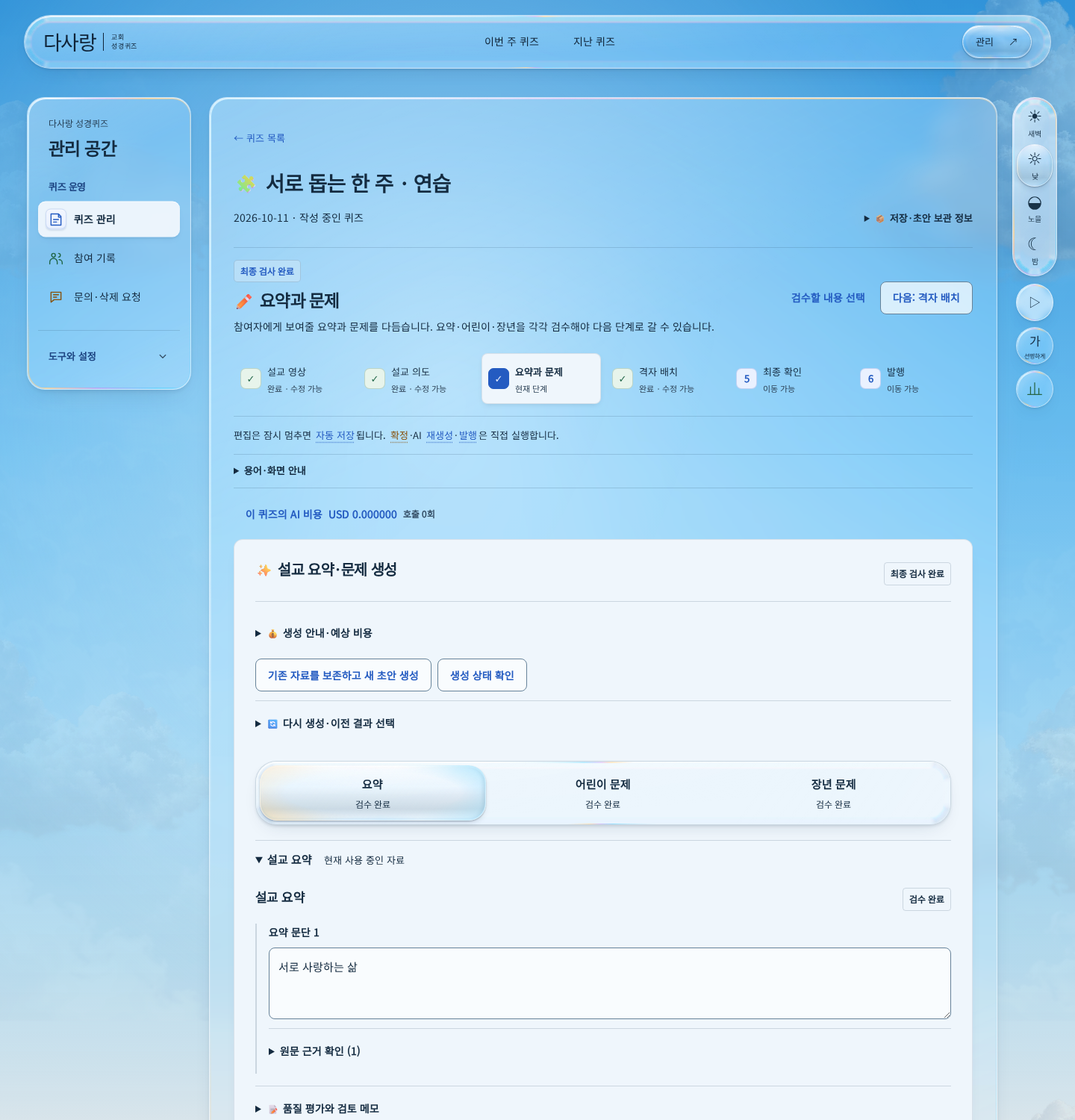
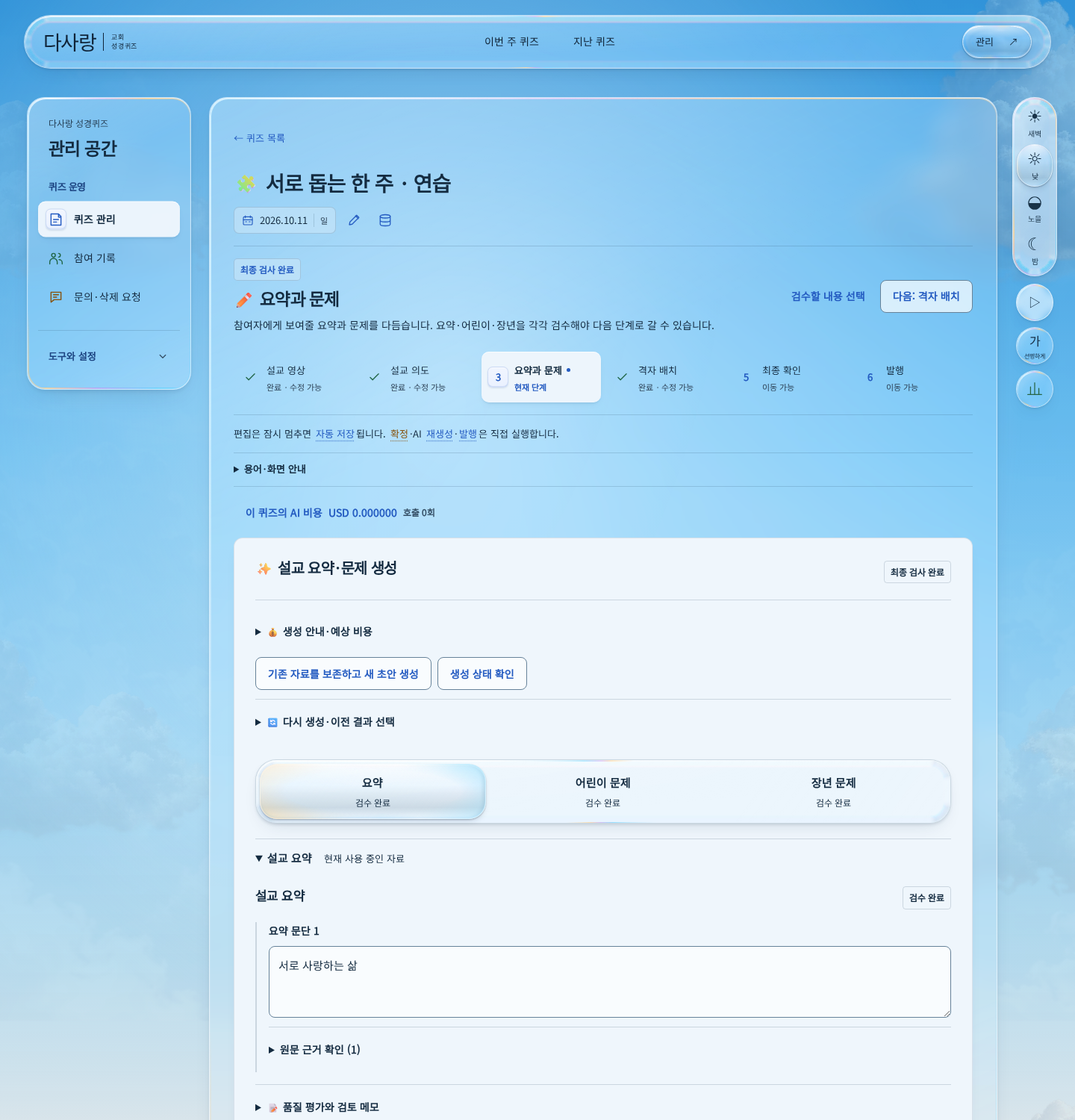
Refine workflow navigation and register warm sunset palette

diff --git a/docs/design/phase-9/admin-sidebar/palette.html b/docs/design/phase-9/admin-sidebar/palette.html
@@ -1,3 +1,3 @@
 <!doctype html><html lang="ko"><meta charset="utf-8"><meta name="viewport" content="width=device-width,initial-scale=1"><title>시간대별 의미 색상</title><style>
 *{box-sizing:border-box}body{margin:0;padding:36px;background:#f3f6fa;color:#172e43;font:15px/1.6 system-ui,"Malgun Gothic",sans-serif}main{max-width:1440px;margin:auto}h1{font-size:28px;margin:0 0 8px;letter-spacing:-.04em}main>p{margin:0 0 30px;color:#4c6075}.themes{display:grid;grid-template-columns:repeat(4,minmax(0,1fr));gap:20px}section{color:var(--ink);background:var(--surface);border:1px solid #829ab433;border-radius:20px;padding:26px}h2{font-size:24px;margin:0 0 6px}header p{font-size:13px;color:var(--muted);min-height:42px;margin:0 0 24px;word-break:keep-all}ul{list-style:none;margin:0;padding:0;display:grid;gap:24px}li>div{display:flex;align-items:center;justify-content:space-between;gap:8px}strong{display:inline-block;padding:6px 11px;font-size:14px;border-radius:7px}code{font-size:12px;color:var(--muted)}li>span{display:block;font-size:12px;color:var(--muted);margin:7px 0 0}footer{font-size:13px;color:#4c6075;margin-top:28px}a{color:#245bc1;text-underline-offset:3px}@media(max-width:1100px){.themes{grid-template-columns:repeat(2,minmax(0,1fr))}}@media(max-width:560px){body{padding:24px 16px}.themes{grid-template-columns:1fr}header p{min-height:0}}
-</style><main><h1>시간대별 의미 색상</h1><p>같은 의미를 유지하면서 하늘의 시간대에 맞춰 글자색과 받침색이 함께 바뀝니다. 도움말 안에서도 실행은 파랑, 완료는 초록, 확인은 호박색, 용어 설명은 자주색, 위험은 장미색으로 구분합니다.</p><div class="themes"><section style="--surface:#e1e5f2;--ink:#172e43;--muted:#4c6075"><header><h2>새벽</h2><p>차가운 하늘에 맞춘 인디고와 보라</p></header><ul><li><div><strong style="color:#354fc0;background:#eaeffd">퀴즈 만들기</strong><code>#354FC0</code></div><span>실행·이동·선택</span></li><li><div><strong style="color:#226253;background:#e6f4ec">공개 중</strong><code>#226253</code></div><span>공개·완료</span></li><li><div><strong style="color:#86500e;background:#fcedd9">답변 대기</strong><code>#86500E</code></div><span>확인 필요·답변 대기</span></li><li><div><strong style="color:#762bb3;background:#f5e6ff">도움말</strong><code>#762BB3</code></div><span>일반 안내·용어의 뜻</span></li><li><div><strong style="color:#ae3555;background:#fbe8f0">확인 실패</strong><code>#AE3555</code></div><span>오류·위험 안내</span></li></ul></section><section style="--surface:#dceffa;--ink:#172e43;--muted:#4c6075"><header><h2>낮</h2><p>맑은 하늘에서도 선명한 색상</p></header><ul><li><div><strong style="color:#245bc1;background:#eaf1ff">퀴즈 만들기</strong><code>#245BC1</code></div><span>실행·이동·선택</span></li><li><div><strong style="color:#216648;background:#e7f4eb">공개 중</strong><code>#216648</code></div><span>공개·완료</span></li><li><div><strong style="color:#87520c;background:#fff1d8">답변 대기</strong><code>#87520C</code></div><span>확인 필요·답변 대기</span></li><li><div><strong style="color:#7429c6;background:#f2e7ff">도움말</strong><code>#7429C6</code></div><span>일반 안내·용어의 뜻</span></li><li><div><strong style="color:#aa3347;background:#fcebf0">확인 실패</strong><code>#AA3347</code></div><span>오류·위험 안내</span></li></ul></section><section style="--surface:#f5e6df;--ink:#172e43;--muted:#4c6075"><header><h2>노을</h2><p>따뜻한 바탕 위의 자주와 적갈색</p></header><ul><li><div><strong style="color:#3d4cb0;background:#eeeafe">퀴즈 만들기</strong><code>#3D4CB0</code></div><span>실행·이동·선택</span></li><li><div><strong style="color:#30623e;background:#ebf3e5">공개 중</strong><code>#30623E</code></div><span>공개·완료</span></li><li><div><strong style="color:#8d480d;background:#fff0d7">답변 대기</strong><code>#8D480D</code></div><span>확인 필요·답변 대기</span></li><li><div><strong style="color:#972492;background:#fce7fa">도움말</strong><code>#972492</code></div><span>일반 안내·용어의 뜻</span></li><li><div><strong style="color:#b22d3b;background:#ffe8e6">확인 실패</strong><code>#B22D3B</code></div><span>오류·위험 안내</span></li></ul></section><section style="--surface:#142d45;--ink:#edf3ff;--muted:#bacbdd"><header><h2>밤</h2><p>어두운 바탕 위의 밝은 색상</p></header><ul><li><div><strong style="color:#acc8ff;background:#1b3558">퀴즈 만들기</strong><code>#ACC8FF</code></div><span>실행·이동·선택</span></li><li><div><strong style="color:#94dab4;background:#153e31">공개 중</strong><code>#94DAB4</code></div><span>공개·완료</span></li><li><div><strong style="color:#f5cb7f;background:#493416">답변 대기</strong><code>#F5CB7F</code></div><span>확인 필요·답변 대기</span></li><li><div><strong style="color:#d7acff;background:#38204f">도움말</strong><code>#D7ACFF</code></div><span>일반 안내·용어의 뜻</span></li><li><div><strong style="color:#ffabbe;background:#4c2031">확인 실패</strong><code>#FFABBE</code></div><span>오류·위험 안내</span></li></ul></section></div><footer>P9-22·P9-23의 실제 앱 색상 기준입니다. <a href="/admin/manual">앱에서 시간대를 바꿔 보기</a> · <a href="reference.png">사이드바 시안 보기</a></footer></main></html>
+</style><main><h1>시간대별 의미 색상</h1><p>같은 의미를 유지하면서 하늘의 시간대에 맞춰 글자색과 받침색이 함께 바뀝니다. 실행은 기본 파랑·노을에는 구릿빛, 완료는 초록, 확인은 호박색, 용어 설명은 자주색, 위험은 장미색으로 구분합니다.</p><div class="themes"><section style="--surface:#e1e5f2;--ink:#172e43;--muted:#4c6075"><header><h2>새벽</h2><p>차가운 하늘에 맞춘 인디고와 보라</p></header><ul><li><div><strong style="color:#354fc0;background:#eaeffd">퀴즈 만들기</strong><code>#354FC0</code></div><span>실행·이동·선택</span></li><li><div><strong style="color:#226253;background:#e6f4ec">공개 중</strong><code>#226253</code></div><span>공개·완료</span></li><li><div><strong style="color:#86500e;background:#fcedd9">답변 대기</strong><code>#86500E</code></div><span>확인 필요·답변 대기</span></li><li><div><strong style="color:#762bb3;background:#f5e6ff">도움말</strong><code>#762BB3</code></div><span>일반 안내·용어의 뜻</span></li><li><div><strong style="color:#ae3555;background:#fbe8f0">확인 실패</strong><code>#AE3555</code></div><span>오류·위험 안내</span></li></ul></section><section style="--surface:#dceffa;--ink:#172e43;--muted:#4c6075"><header><h2>낮</h2><p>맑은 하늘에서도 선명한 색상</p></header><ul><li><div><strong style="color:#245bc1;background:#eaf1ff">퀴즈 만들기</strong><code>#245BC1</code></div><span>실행·이동·선택</span></li><li><div><strong style="color:#216648;background:#e7f4eb">공개 중</strong><code>#216648</code></div><span>공개·완료</span></li><li><div><strong style="color:#87520c;background:#fff1d8">답변 대기</strong><code>#87520C</code></div><span>확인 필요·답변 대기</span></li><li><div><strong style="color:#7429c6;background:#f2e7ff">도움말</strong><code>#7429C6</code></div><span>일반 안내·용어의 뜻</span></li><li><div><strong style="color:#aa3347;background:#fcebf0">확인 실패</strong><code>#AA3347</code></div><span>오류·위험 안내</span></li></ul></section><section style="--surface:#f7e9df;--ink:#3f2c2b;--muted:#715750"><header><h2>노을</h2><p>살구빛 본문과 구릿빛 실행색</p></header><ul><li><div><strong style="color:#8a432f;background:#f9e4d9">퀴즈 만들기</strong><code>#8A432F</code></div><span>실행·이동·선택</span></li><li><div><strong style="color:#30623e;background:#ebf3e5">공개 중</strong><code>#30623E</code></div><span>공개·완료</span></li><li><div><strong style="color:#8d480d;background:#fff0d7">답변 대기</strong><code>#8D480D</code></div><span>확인 필요·답변 대기</span></li><li><div><strong style="color:#972492;background:#fce7fa">도움말</strong><code>#972492</code></div><span>일반 안내·용어의 뜻</span></li><li><div><strong style="color:#b22d3b;background:#ffe8e6">확인 실패</strong><code>#B22D3B</code></div><span>오류·위험 안내</span></li></ul></section><section style="--surface:#142d45;--ink:#edf3ff;--muted:#bacbdd"><header><h2>밤</h2><p>어두운 바탕 위의 밝은 색상</p></header><ul><li><div><strong style="color:#acc8ff;background:#1b3558">퀴즈 만들기</strong><code>#ACC8FF</code></div><span>실행·이동·선택</span></li><li><div><strong style="color:#94dab4;background:#153e31">공개 중</strong><code>#94DAB4</code></div><span>공개·완료</span></li><li><div><strong style="color:#f5cb7f;background:#493416">답변 대기</strong><code>#F5CB7F</code></div><span>확인 필요·답변 대기</span></li><li><div><strong style="color:#d7acff;background:#38204f">도움말</strong><code>#D7ACFF</code></div><span>일반 안내·용어의 뜻</span></li><li><div><strong style="color:#ffabbe;background:#4c2031">확인 실패</strong><code>#FFABBE</code></div><span>오류·위험 안내</span></li></ul></section></div><section style="margin-top:24px;--surface:#f7e9df;--ink:#3f2c2b;--muted:#715750"><h2>노을 · 살구빛과 구릿빛</h2><p>본문 #F7E9DF · 실행 #8A432F · 실행 받침 #F9E4D9 · 입력 경계 #9D7363. 도움말·도구·초안·설정·게시판과 공개 화면에 같은 색상을 적용합니다. 완료·주의·설명·위험의 의미는 유지합니다.</p><a style="color:#8a432f" href="../admin-boards/review#sunset">실제 노을 화면 비교하기</a></section><footer>P9-22·P9-23의 실제 앱 색상 기준입니다. <a href="/admin/manual">앱에서 시간대를 바꿔 보기</a> · <a href="reference.png">사이드바 시안 보기</a></footer></main></html>

diff --git a/docs/design/phase-9/admin-boards/review.html b/docs/design/phase-9/admin-boards/review.html
@@ -8,7 +8,7 @@ body{margin:0;background:#eaf4fa;color:#17334a;font:15px/1.7 system-ui,sans-seri
 <main>
 <h1>관리자 실제 화면과 생성 시안</h1>
 <p>2026년 10월 14일 적용 화면입니다. 지정한 문의 시안에 맞춰 선택한 인덱스만 상단 색 띠와 본문 바탕을 공유합니다. 사이드바와 도움말 목차는 같은 선택 면을 사용하고, 도움말은 투명한 목차와 불투명한 읽기 면으로 나눴습니다. 실제 React UI에 연습 자료를 표시해 촬영했으며, 이미지를 누르면 원본을 크게 볼 수 있습니다.</p>
-<nav aria-label="실제 관리자 화면"><a href="/admin">퀴즈 관리 열기</a><a href="/admin/submissions">참여 기록 열기</a><a href="/admin/privacy-requests">문의·삭제 요청 열기</a><a href="/admin/manual">도움말 열기</a><a href="#manual">도움말 시안과 비교</a><a href="#tools">도구·설정 적용 화면</a><a href="#workspace">초안 6단계·퀴즈 설정</a></nav>
+<nav aria-label="실제 관리자 화면"><a href="/admin">퀴즈 관리 열기</a><a href="/admin/submissions">참여 기록 열기</a><a href="/admin/privacy-requests">문의·삭제 요청 열기</a><a href="/admin/manual">도움말 열기</a><a href="#manual">도움말 시안과 비교</a><a href="#tools">도구·설정 적용 화면</a><a href="#workspace">초안 6단계·퀴즈 설정</a><a href="#sunset">새 노을 팔레트</a></nav>
 <div class="themes" role="group" aria-label="실제 화면 시간대"><button type="button" data-preview-time="day" aria-pressed="true">☀ 낮 화면</button><button type="button" data-preview-time="night" aria-pressed="false">☾ 밤 화면</button></div>
 <p>낮·밤 버튼으로 실제 화면을 바꿔 볼 수 있습니다. 생성 시안과 서비스 사전 예시는 낮 배경을 유지합니다.</p>
 <section><h2>퀴즈 관리</h2><p>현황과 Live의 5:5 비율과 세 가지 바탕색을 유지했습니다. 선택한 인덱스만 선명한 상단 강조선을 쓰고, 다른 탭의 진한 테두리와 색 띠는 없앴습니다. 탭의 윗변과 글자 높이는 선택 전후에도 같습니다. 왼쪽 메뉴는 짧은 그림자와 윗면 반사가 있는 선택 배경을 사용합니다.</p><figure class="quiz"><figcaption>실제 화면 · 연습 자료</figcaption><a href="quiz-actual.png"><img data-screenshot-day="quiz-actual.png" data-screenshot-night="quiz-night.png" src="quiz-actual.png" alt="실제 퀴즈 관리: 밝은 선택 면과 본문에 붙은 인덱스"></a></figure></section>
@@ -19,6 +19,10 @@ body{margin:0;background:#eaf4fa;color:#17334a;font:15px/1.7 system-ui,sans-seri
 <div class="compare"><figure><figcaption><a href="/admin/tools">수정·보관 도구 열기</a></figcaption><a href="../admin-tools/tools-actual.png"><img data-screenshot-day="../admin-tools/tools-actual.png" data-screenshot-night="../admin-tools/tools-night.png" src="../admin-tools/tools-actual.png" alt="수정·보관 도구: 투명한 외곽 안의 불투명한 도구 목록과 굵은 그룹 제목"></a></figure>
 <figure><figcaption><a href="/admin/moderation">이름·문구 필터 열기</a></figcaption><a href="../admin-tools/moderation-actual.png"><img data-screenshot-day="../admin-tools/moderation-actual.png" data-screenshot-night="../admin-tools/moderation-night.png" src="../admin-tools/moderation-actual.png" alt="이름·문구 필터: 읽기 면 안에 펼친 등록 폼과 같은 간격의 필터 목록"></a></figure>
 <figure><figcaption><a href="/admin/operations">비용·백업 열기</a></figcaption><a href="../admin-tools/operations-actual.png"><img data-screenshot-day="../admin-tools/operations-actual.png" data-screenshot-night="../admin-tools/operations-night.png" src="../admin-tools/operations-actual.png" alt="비용·백업: 투명 외곽과 구분되는 사용량·백업 상태의 불투명한 바탕"></a></figure></div></section>
+<section id="sunset"><h2>노을 · 살구빛 본문과 구릿빛 실행색</h2><p>노을 시간대는 불투명 본문 #F7E9DF, 실행·이동·선택 #8A432F, 받침 #F9E4D9를 사용합니다. 입력칸·선택 면·버튼·링크·격자도 같은 계열로 연결했습니다. 아래는 실제 React 화면에 연습 자료를 표시한 노을 촬영본입니다. <a href="../admin-sidebar/palette">네 시간대 색상표 보기</a></p><div class="compare">
+<figure><figcaption>초안 편집 · 이동하는 단계 배경과 작은 제목 정보</figcaption><a href="../admin-workspace/step-3-dusk.png"><img loading="lazy" width="1440" height="1500" src="../admin-workspace/step-3-dusk.png" alt="노을 초안 편집의 살구빛 본문과 구릿빛 단계 받침, 날짜·상태 아이콘"></a></figure>
+<figure><figcaption>퀴즈 설정 · 발행 정보 펼침</figcaption><a href="../admin-workspace/settings-dusk.png"><img loading="lazy" width="1440" height="1500" src="../admin-workspace/settings-dusk.png" alt="노을 퀴즈 설정의 불투명 본문과 따뜻한 입력칸·버튼"></a></figure>
+<figure><figcaption>도움말 · 목차와 읽기 본문</figcaption><a href="../admin-workspace/manual-dusk.png"><img loading="lazy" width="1440" height="1500" src="../admin-workspace/manual-dusk.png" alt="노을 도움말의 따뜻한 본문·목차와 의미별 강조색"></a></figure></div></section>
 <section id="workspace"><h2>초안 편집 6단계와 퀴즈 설정</h2><p>도움말·도구와 같은 투명 외곽과 불투명 본문을 적용했습니다. 단계 선택은 완료·현재·대기를 구별하고, 본문 안의 큰 중첩 상자는 구분선으로 정리했습니다. 최종 격자도 현재 시간대 색상을 따릅니다. 실제 React 화면에 저장하지 않는 연습 자료를 표시한 촬영본입니다. 상단 낮·밤 버튼으로 바꾸거나 이미지를 눌러 확대할 수 있습니다.</p><div class="compare">
 <figure><figcaption>1. 설교 영상</figcaption><a href="../admin-workspace/step-1-actual.png"><img loading="lazy" decoding="async" width="1440" height="1500" data-screenshot-day="../admin-workspace/step-1-actual.png" data-screenshot-night="../admin-workspace/step-1-night.png" src="../admin-workspace/step-1-actual.png" alt="초안 편집 1단계 설교 영상: 투명한 단계 안내와 불투명한 실제 작업 본문"></a></figure>
 <figure><figcaption>2. 설교 의도</figcaption><a href="../admin-workspace/step-2-actual.png"><img loading="lazy" decoding="async" width="1440" height="1500" data-screenshot-day="../admin-workspace/step-2-actual.png" data-screenshot-night="../admin-workspace/step-2-night.png" src="../admin-workspace/step-2-actual.png" alt="초안 편집 2단계 설교 의도: 투명한 단계 안내와 불투명한 실제 작업 본문"></a></figure>

diff --git a/src/features/admin-weekly/weekly.module.css b/src/features/admin-weekly/weekly.module.css
@@ -100,7 +100,8 @@
 .workspace :global([data-admin-tool]) .panel { padding: 0; border: 0; border-radius: 0; background: transparent; }
 .workspace :global([data-admin-sheet]) .panel > h3 { padding-bottom: 16px; border-bottom: 1px solid var(--line); }
 
-/* A compact, stable step rail: completed, current and locked remain distinct. */
+/* The shared moving surface carries its icon well; state remains on the glyph and label. */
+.stepNavigation { display: block; padding: 0 0 16px; border-bottom: 1px solid var(--line); }
 .stepper { position: static; padding: 0 0 16px; border: 0; border-bottom: 1px solid var(--line); border-radius: 0; background: transparent; gap: 6px; }
 .stepper button { grid-template-columns: 28px minmax(0,1fr); grid-template-rows: auto auto; justify-items: start; align-items: center; align-content: center; gap: 2px 8px; padding: 10px 8px; min-height: 68px; height: 100%; text-align: left; border: 1px solid transparent; border-radius: 8px; color: var(--ink); }
 .stepNumber { grid-row: 1 / 3; width: 28px; height: 28px; background: var(--ui-action-bg); color: var(--ui-action); border: 1px solid color-mix(in srgb,var(--ui-action) 20%,transparent); border-radius: 7px; }
@@ -111,6 +112,17 @@
 .stepper [aria-current=step] .stepNumber { color: var(--ui-action-bg); background: var(--ui-action); border-color: var(--ui-action); }
 .stepper button:disabled { opacity: 1; color: var(--muted); }
 .stepper button:disabled .stepNumber { color: var(--muted); border-color: var(--line); background: transparent; }
+.stepNavigation .stepper { padding: 0; border: 0; }
+.stepNavigation .stepper button { border: 0; border-radius: 10px; }
+.stepNavigation .stepper button:is(:hover,[aria-current=step],:disabled) { background: transparent; box-shadow: none; }
+.stepNavigation .stepper .stepNumber { border: 0; background: transparent; color: var(--ui-action); }
+.stepNavigation .stepper [data-complete]:not([aria-current]) .stepNumber { color: var(--ui-success); }
+.stepNavigation .stepper button:disabled { color: var(--muted); cursor: not-allowed; }
+.stepNavigation .stepper button:disabled .stepNumber { color: var(--muted); }
+.stepNumber > svg { width: 19px; height: 19px; }
+.stepTitle { display: flex; align-items: center; gap: 6px; }
+.currentStepDot { width: 5px; height: 5px; flex: 0 0 5px; border-radius: 50%; background: var(--ui-action); }
+.stepNavigation [aria-current=step] small { color: var(--ui-action); font-weight: 700; }
 @media (max-width: 1200px) and (min-width: 1024px), (max-width: 760px) {
  .stepper { grid-template-columns: repeat(3,minmax(0,1fr)); }
 }
@@ -121,4 +133,19 @@
 @media (forced-colors: active) {
  .stepper [aria-current=step] { background: Canvas; border-color: Highlight; box-shadow: none; }
  .stepper [aria-current=step] .stepNumber { background: Highlight; color: HighlightText; }
+ .stepNavigation .stepper [aria-current=step] .stepNumber { background: transparent; color: Highlight; }
+ .stepNavigation .stepper button:disabled { color: GrayText; }
+ .stepNavigation .stepper button:disabled .stepNumber { color: GrayText; }
 }
+
+.workspaceHeader .workspaceMeta { grid-column: 1 / -1; display: flex; align-items: center; flex-wrap: wrap; gap: 6px; padding-top: 8px; }
+.sermonDate { display: inline-flex; align-items: center; gap: 8px; min-height: 36px; padding: 4px 10px; border: 1px solid var(--line); border-radius: 7px; background: var(--glass-soft); font-size: 13px; font-variant-numeric: tabular-nums; }
+.sermonDate > svg { width: 16px; height: 16px; color: var(--ui-action); }
+.sermonDate small { font-size: 11px; color: var(--muted); padding-left: 8px; border-left: 1px solid var(--line); }
+.workspaceMeta .metadataIcon { display: inline-grid; place-items: center; width: 36px; height: 36px; min-height: 36px; padding: 0; border: 1px solid transparent; border-radius: 7px; background: transparent; color: var(--ui-action); }
+.workspaceMeta .metadataIcon[data-tone=success] { color: var(--ui-success); }
+.workspaceMeta .metadataIcon[data-tone=attention] { color: var(--ui-attention); }
+.workspaceMeta .metadataIcon[data-tone=neutral] { color: var(--muted); }
+.workspaceMeta .metadataIcon:hover { background: var(--admin-sheet); border-color: var(--admin-sheet-edge); box-shadow: inset 0 1px 0 var(--glass-highlight); }
+.metadataIcon > svg { width: 18px; height: 18px; }
+@media (pointer: coarse) { .workspaceMeta .metadataIcon { width: 44px; height: 44px; } }

diff --git a/tests/e2e/admin-workspace.spec.ts b/tests/e2e/admin-workspace.spec.ts
@@ -1,5 +1,58 @@
 import {expect,test} from '@playwright/test';
 import {mockAdminWorkspace} from './fixtures/admin-workspace';
+import {mockAdminGuide} from './fixtures/admin-guide';
+
+test('workflow highlight carries its icon well while current, complete and locked steps stay distinct',async({page,isMobile})=>{
+  const writes=await mockAdminGuide(page);
+  await page.goto('/admin/quiz/weekly?step=3');
+  const menu=page.getByRole('navigation',{name:'초안 편집 단계'});
+  const current=menu.getByRole('button',{name:/^요약과 문제/});
+  const completed=menu.getByRole('button',{name:/^설교 영상/});
+  const locked=menu.getByRole('button',{name:/^격자 배치/});
+  await expect(current).toHaveAttribute('aria-current','step');
+  await expect(current).toContainText('현재 단계');
+  await expect(completed).toHaveAttribute('data-complete','true');
+  await expect(completed).toContainText('완료 · 수정 가능');
+  await expect(locked).toBeDisabled();await expect(locked).toContainText('잠김');
+  const surface=menu.locator('[data-admin-menu-selection]');
+  const well=surface.locator('[data-admin-menu-icon-surface]');
+  const aligned=async(target:typeof completed)=>{
+    await expect.poll(async()=>{const a=await target.boundingBox(),b=await surface.boundingBox();return a&&b?Math.abs(a.x-b.x)+Math.abs(a.y-b.y):999;}).toBeLessThan(1);
+    const icon=await target.locator('[data-admin-menu-icon]').boundingBox(),box=await well.boundingBox();
+    expect(icon&&box&&Math.abs(icon.x-box.x)+Math.abs(icon.y-box.y)).toBeLessThan(1);
+  };
+  await aligned(current);
+  if(!isMobile){
+    await completed.hover();await aligned(completed);
+    await expect(completed.locator('[data-admin-menu-icon]')).toHaveCSS('background-color','rgba(0, 0, 0, 0)');
+    await expect(current).toHaveAttribute('aria-current','step');
+    await locked.hover({force:true});await aligned(current);
+  }
+  await completed.focus();await aligned(completed);
+  await page.keyboard.press('Enter');await expect(completed).toHaveAttribute('aria-current','step');
+  await page.emulateMedia({reducedMotion:'reduce'});await expect(surface).toHaveCSS('transition-duration','0s');
+  await page.emulateMedia({forcedColors:'active'});await expect(completed).toBeEnabled();await expect(locked).toBeDisabled();
+  expect(writes).toEqual([]);
+});
+
+test('workspace date stays compact and state and retention icons explain on focus and tap',async({page})=>{
+  const writes=await mockAdminWorkspace(page);
+  await page.goto('/admin/quiz/weekly?step=1');
+  const header=page.locator('[data-admin-workspace] > header');
+  await expect(header.locator('time')).toHaveAttribute('datetime','2026-10-11');
+  await expect(header.locator('time')).toHaveText('2026.10.11');
+  for(const [name,detail] of [['작성 중인 퀴즈','아직 공개되지 않은 초안'],['저장·초안 보관 정보','마지막 저장:']]) {
+    const icon=header.getByRole('button',{name,exact:true});
+    await expect(icon).toHaveText('');await icon.focus();
+    const tip=page.getByRole('tooltip').filter({hasText:detail});
+    await expect(tip).toBeVisible();await expect(tip).toHaveAttribute('data-side','above');
+    await page.keyboard.press('Escape');await expect(tip).toBeHidden();
+    await icon.click();await expect(tip).toBeVisible();
+    await page.keyboard.press('Escape');
+  }
+  expect(await page.evaluate(()=>document.documentElement.scrollWidth<=innerWidth)).toBe(true);
+  expect(writes).toEqual([]);
+});
 
 test('six-stage workspace keeps selections, preview controls and publication confirmation usable',async({page})=>{
   const writes=await mockAdminWorkspace(page);

diff --git a/src/features/admin-sermon-input/AdminSermonInput.tsx b/src/features/admin-sermon-input/AdminSermonInput.tsx
@@ -1,4 +1,6 @@
 import { AdminRefreshButton } from "../../components/AdminListTools";
+import { AdminMenu } from "../../components/AdminMenu";
+import { AdminIcon } from "../../components/AdminIcon";
 import { AdminConcepts, AdminLabel, GuideText } from "../../components/AdminHelp";
 import { AdminScreenshots } from "../../components/AdminScreenshots";
 import { Button } from "../../components/Button";
@@ -549,7 +551,7 @@ export function AdminSermonInput({ initialSermonId = "", quizSetId, weekly = fal
       {weekly && (step === 2 && selectedIntent || step === 3) && <a className={styles.reviewJump} href={step === 2 ? `#snapshot-${c?.intent?.selectedId}` : "#review-targets"}>{step === 2 ? "현재 선택본 확인" : "검수할 내용 선택"}</a>}
       {weekly && step < 6 && <Button type="button" disabled={!available[step] || changedInput || contentDirty || feedback.state === "loading"} onClick={() => selectStep(step + 1)}>다음: {stepNames[step]}</Button>}
     </header>
-    {weekly && <ol className={weeklyStyles.stepper} aria-label="주간 발행 6단계">{stepNames.map((label,index)=><li key={label}><button type="button" disabled={!available[index]} data-complete={index+1<recommended || undefined} aria-current={step===index+1?"step":undefined} onClick={()=>selectStep(index+1)}><span className={weeklyStyles.stepNumber} aria-hidden="true">{index+1<recommended ? "✓" : index+1}</span><span>{label}</span><small>{!available[index]?reasons[index]:step===index+1?"현재 단계":index+1<recommended?"완료 · 수정 가능":"이동 가능"}</small></button></li>)}</ol>}
+    {weekly && <AdminMenu label="초안 편집 단계" selectionKey={String(step)} className={weeklyStyles.stepNavigation}><ol className={weeklyStyles.stepper} aria-label="주간 발행 6단계">{stepNames.map((label,index)=><li key={label}><button type="button" data-admin-menu-item disabled={!available[index]} data-complete={index+1<recommended || undefined} aria-current={step===index+1?"step":undefined} onClick={()=>selectStep(index+1)}><span className={weeklyStyles.stepNumber} data-admin-menu-icon aria-hidden="true">{!available[index] ? <AdminIcon name="lock"/> : index+1<recommended && step!==index+1 ? <AdminIcon name="check"/> : index+1}</span><span className={weeklyStyles.stepTitle}>{label}{step===index+1 && <span className={weeklyStyles.currentStepDot} aria-hidden="true"/>}</span><small>{!available[index]?`잠김 · ${reasons[index]}`:step===index+1?"현재 단계":index+1<recommended?"완료 · 수정 가능":"이동 가능"}</small></button></li>)}</ol></AdminMenu>}
     {blocker.state === "blocked" && <div role="alert"><p>저장되지 않은 편집이 있습니다. 이 화면에서 저장을 확인해 주세요.</p><Button type="button" onClick={() => blocker.reset()}>작업 계속하기</Button><Button type="button" onClick={() => blocker.proceed()}>저장하지 않고 이동</Button></div>}
     {weekly && <p className={styles.saveGuidance} role="status">{changedInput || contentDirty ? "저장 확인 필요. " : ""}<GuideText text="편집은 잠시 멈추면 자동 저장됩니다. 확정·AI 재생성·발행은 직접 실행합니다."/></p>}
 

diff --git a/src/features/admin-weekly/WorkspaceMeta.tsx b/src/features/admin-weekly/WorkspaceMeta.tsx
@@ -1,0 +1,25 @@
+import type { WeeklyQuiz } from "../../../shared/api/admin-weekly";
+import { AdminTooltip } from "../../components/AdminHelp";
+import { AdminIcon, type AdminIconName } from "../../components/AdminIcon";
+import styles from "./weekly.module.css";
+
+function InfoIcon({ label, detail, icon, tone = "action" }: { label: string; detail: string; icon: AdminIconName; tone?: string }) {
+  return <AdminTooltip label={detail}>{descriptionId => <button type="button" className={styles.metadataIcon} aria-label={label} aria-describedby={descriptionId} popoverTarget={descriptionId} popoverTargetAction="show" data-tone={tone}><AdminIcon name={icon}/></button>}</AdminTooltip>;
+}
+
+const savedTime = (value: string) => new Date(value).toLocaleString("ko-KR", { timeZone: "Asia/Seoul" });
+
+export function WorkspaceMeta({ quiz, due }: { quiz: WeeklyQuiz; due: string | null }) {
+  const state = quiz.expired ? { label: "본문이 정리된 초안", detail: "초안 본문이 정리되었습니다. 기존 발행 기록과 비용은 보존됩니다.", icon: "database" as const, tone: "neutral" }
+    : quiz.withdrawn ? { label: "발행을 취소한 퀴즈", detail: "공개를 취소하고 검수를 기다리는 퀴즈입니다. 발행 당시 자료는 보존됩니다.", icon: "document" as const, tone: "attention" }
+    : quiz.status === "archived" ? { label: "마감된 퀴즈", detail: "참여 접수가 끝난 퀴즈입니다. 기존 답안과 결과를 확인할 수 있습니다.", icon: "check" as const, tone: "neutral" }
+    : quiz.status === "published" ? { label: "발행된 퀴즈", detail: "발행된 퀴즈입니다. 공개 화면과 참여 기록을 확인할 수 있습니다.", icon: "globe" as const, tone: "success" }
+    : { label: "작성 중인 퀴즈", detail: "아직 공개되지 않은 초안입니다. 여섯 단계를 확인한 뒤 발행할 수 있습니다.", icon: "edit" as const, tone: "action" };
+  const retention = quiz.expired ? "초안 본문 정리 완료." : due ? `초안 본문 정리 예정: ${savedTime(due)} (한국 시간).` : "초안 본문 정리 일정은 수정·보관 도구의 초안 보관 현황에서 확인하세요.";
+  const weekday = new Date(`${quiz.sermonDate}T12:00:00+09:00`).toLocaleDateString("ko-KR", { weekday: "short", timeZone: "Asia/Seoul" });
+  return <div className={styles.workspaceMeta}>
+    <span className={styles.sermonDate}><AdminIcon name="calendar"/><span className="sr-only">설교일 </span><time dateTime={quiz.sermonDate}>{quiz.sermonDate.replaceAll("-", ".")}</time><small>{weekday}</small></span>
+    <InfoIcon label={state.label} detail={`${state.label}. ${state.detail}`} icon={state.icon} tone={state.tone}/>
+    <InfoIcon label="저장·초안 보관 정보" detail={`마지막 저장: ${savedTime(quiz.updatedAt)} (한국 시간). ${retention}`} icon="database"/>
+  </div>;
+}

diff --git a/tests/e2e/admin-guide-capture.spec.ts b/tests/e2e/admin-guide-capture.spec.ts
@@ -65,7 +65,7 @@ test('capture operator guide examples', async ({ page }) => {
       await open(`/admin/quiz/weekly?step=${step}`);
       await expect(page.getByRole('heading',{name:names[step-1],exact:true})).toBeVisible();
       if(step===5)await expect(page.getByLabel('어린이 Top N')).toHaveValue('3');
-      for(const [label,time] of [['낮','actual'],['밤','night']]) {
+      for(const [label,time] of [['낮','actual'],['밤','night'],...(step===3?[['노을','dusk']]:[])]) {
         await page.getByRole('button',{name:label!,exact:true}).click();
         await page.mouse.move(0,0);await page.evaluate(()=>scrollTo(0,0));
         await page.screenshot({path:`docs/design/phase-9/admin-workspace/step-${step}-${time}.png`,animations:'disabled'});
@@ -74,11 +74,16 @@ test('capture operator guide examples', async ({ page }) => {
     await open('/admin/quiz/published-example');
     await page.locator('[data-admin-tool=quiz-metadata] > summary').click();
     await expect(page.getByRole('textbox',{name:'설교 제목',exact:true})).toHaveValue('함께 걷는 기쁨 · 연습');
-    for(const [label,time] of [['낮','actual'],['밤','night']]) {
+    for(const [label,time] of [['낮','actual'],['밤','night'],['노을','dusk']]) {
       await page.getByRole('button',{name:label!,exact:true}).click();
       await page.mouse.move(0,0);await page.evaluate(()=>scrollTo(0,0));
       await page.screenshot({path:`docs/design/phase-9/admin-workspace/settings-${time}.png`,animations:'disabled'});
     }
+    await open('/admin/manual');
+    await page.getByRole('button',{name:'노을',exact:true}).click();
+    await expect(page.locator('[data-admin-sheet]')).toBeVisible();
+    await page.mouse.move(0,0);await page.evaluate(()=>scrollTo(0,0));
+    await page.screenshot({path:'docs/design/phase-9/admin-workspace/manual-dusk.png',animations:'disabled'});
     await open('/admin/quiz/weekly?step=1');
     await expect(page.getByRole('textbox',{name:'설교 제목',exact:true})).toHaveValue('서로 돕는 한 주 · 연습');
     await between('input',page.locator('section[aria-labelledby="sermon-drafts-title"]'),page.getByRole('textbox',{name:'성경 장절',exact:true}));

diff --git a/src/features/admin-weekly/Workspace.tsx b/src/features/admin-weekly/Workspace.tsx
@@ -13,6 +13,7 @@ import { WithdrawPublication } from "../admin-sermon-input/WithdrawPublication";
 import { ProblemCorrection } from "../admin-sermon-input/ProblemCorrection";
 import { QuizDeadline } from "../admin-sermon-input/QuizDeadline";
 import { WinnerSettings } from "./WinnerSettings";
+import { WorkspaceMeta } from "./WorkspaceMeta";
 import { weeklyRequest } from "./client";
 import styles from "./weekly.module.css";
 export function Component(){
@@ -30,7 +31,7 @@ export function Component(){
   const published=quiz&&['published','archived'].includes(quiz.status);
   return <div className={`${styles.page} ${styles.workspace}`} data-admin-clear data-admin-workspace data-admin-tool-page={published || undefined}><Link className={styles.backLink} to="/admin">← 퀴즈 목록</Link>{message&&<div><p role="alert">{message}</p><Button onClick={()=>{setMessage('');setAttempt(a=>a+1);}}>다시 불러오기</Button></div>}
     {!id?(newChecked?<AdminSermonInput weekly/>:!message&&<p role="status">기존 초안을 확인하고 있습니다.</p>):!quiz?!message&&<p role="status">퀴즈를 불러오고 있습니다.</p>:<>
-      <header className={styles.workspaceHeader}><h2><AdminEmoji>🧩</AdminEmoji>{quiz.title}</h2><p>{quiz.sermonDate} · {published?quiz.status==='archived'?'마감된 퀴즈':'발행된 퀴즈':'작성 중인 퀴즈'}</p><details><summary><AdminLabel text="저장·초안 보관 정보"/></summary><p>마지막 저장: {new Date(quiz.updatedAt).toLocaleString('ko-KR',{timeZone:'Asia/Seoul'})} (한국 시간) · 초안 본문 정리 예정: {due?new Date(due).toLocaleString('ko-KR',{timeZone:'Asia/Seoul'}):'초안 보관 현황에서 확인'}</p></details></header>
+      <header className={styles.workspaceHeader}><h2><AdminEmoji>🧩</AdminEmoji>{quiz.title}</h2><WorkspaceMeta quiz={quiz} due={due}/></header>
       {published?<>
         <details className={styles.workspaceHelp}><summary><AdminLabel text="용어·화면 안내"/></summary><div className={styles.quickHelp}><AdminConcepts terms={["발행", "접수 마감", "Top N"]}/>
         <AdminScreenshots ids={["settings"]} compact/></div></details>

diff --git a/src/components/AdminMenu.tsx b/src/components/AdminMenu.tsx
@@ -15,7 +15,7 @@ function measureSelection(nav: HTMLElement, item: HTMLElement | null): Selection
   };
 }
 
-/** Shared selection surface for the app navigation and the manual's topic navigation. */
+/** Shared selection surface for admin navigation, topics and workflow steps. */
 export function AdminMenu({ label, selectionKey, className = "", children }: {
   label: string; selectionKey: string; className?: string | undefined; children: ReactNode;
 }) {
@@ -24,7 +24,9 @@ export function AdminMenu({ label, selectionKey, className = "", children }: {
 
   function show(item: HTMLElement | null) {
     const nav = navigation.current;
-    setSelection(nav ? measureSelection(nav, item) : null);
+    // Locked workflow steps never acquire the travelling, actionable surface.
+    const target = item?.matches(':disabled, [aria-disabled="true"]') ? nav?.querySelector<HTMLElement>(`${itemSelector}[aria-current]`) ?? null : item;
+    setSelection(nav ? measureSelection(nav, target) : null);
   }
   function restore() {
     show(navigation.current?.querySelector<HTMLElement>(`${itemSelector}[aria-current]`) ?? null);

diff --git a/src/components/admin-menu.module.css b/src/components/admin-menu.module.css
@@ -10,6 +10,7 @@
 /* The icon well travels inside the row surface, so a new icon cannot light up ahead of it. */
 .iconSurface { position: absolute; border: 1px solid color-mix(in srgb,var(--ui-action) 16%,transparent); border-radius: 7px; background: linear-gradient(180deg,color-mix(in srgb,var(--glass-highlight) 30%,var(--ui-action-bg)),var(--ui-action-bg)); box-shadow: inset 0 1px 0 color-mix(in srgb,var(--glass-highlight) 70%,transparent), inset 0 -1px 0 color-mix(in srgb,var(--ui-action) 12%,transparent), 0 1px 2px var(--menu-shadow); }
 :global(body[data-time=night]) .menu { --menu-selection: #56616b; --menu-edge: rgb(234 242 250 / .28); --menu-shadow: rgb(3 12 25 / .36); }
+:global(body[data-time=dusk]) .menu { --menu-shadow: rgb(82 42 31 / .16); }
 :global(body[data-transparency=reduced]) .menu { --menu-selection: var(--glass-solid); }
 :global(body[data-time=night][data-transparency=reduced]) .menu { --menu-selection: #56616b; }
 @media (prefers-reduced-transparency: reduce) { .menu { --menu-selection: var(--glass-solid); } :global(body[data-time=night]) .menu { --menu-selection: #56616b; } }

diff --git a/docs/design/phase-9/sky-v2/components/glass-base.css b/docs/design/phase-9/sky-v2/components/glass-base.css
@@ -32,7 +32,22 @@ body[data-time=dawn] {
   --glass-soft: rgb(224 225 245 / .45);
 }
 body[data-time=dusk] {
-  --muted: #514157;
+  /* Registered sunset pair: apricot reading surfaces and copper actions. */
+  --dusk-action: #8a432f;
+  --dusk-action-bg: #f9e4d9;
+  --ink: #3f2c2b;
+  --muted: #715750;
+  --line: rgb(107 80 67 / .24);
+  --accent: var(--dusk-action);
+  --accent-hover: #682d20;
+  --glass-solid: #f7e9df;
+  --glass-solid-selected: #fff5ec;
+  --glass-field: rgb(255 248 241 / .88);
+  --glass-selected: rgb(255 245 235 / .76);
+  --glass-selected-ink: var(--dusk-action);
+  --glass-tint: var(--dusk-action);
+  --glass-on-tint: #fff8f2;
+  --glass-shadow: rgb(82 42 31 / .18);
   --glass-clear: rgb(255 244 230 / .63);
   --glass-reading: rgb(255 249 240 / .78);
   --glass-soft: rgb(244 223 205 / .42);

diff --git a/docs/design/phase-9/sky-v2/components/glass-prism.css b/docs/design/phase-9/sky-v2/components/glass-prism.css
@@ -34,11 +34,16 @@ body[data-time=dusk] {
   --glass-clear: rgb(255 244 230 / .24);
   --glass-reading: rgb(255 249 240 / .65);
   --glass-home-reading: rgb(255 249 240 / .48);
-  --glass-rim-cool: rgb(130 218 249 / .66);
-  --glass-rim-violet: rgb(209 145 228 / .62);
+  --glass-rim-cool: rgb(255 183 158 / .66);
+  --glass-rim-violet: rgb(226 158 178 / .62);
   --glass-rim-warm: rgb(255 209 141 / .85);
   --glass-reflection: rgb(255 227 187 / .18);
-  --glass-control-ink: #392c42;
+  --glass-control-ink: #3f2c2b;
+  --glass-header-ink: #3f2c2b;
+  --glass-bottom: rgb(255 208 174 / .42);
+  --glass-selected: rgb(255 245 235 / .65);
+  --glass-shadow: rgb(82 42 31 / .22);
+  --glass-admin-fill: rgb(255 245 235 / .24);
 }
 body[data-time=night] {
   --glass-clear: rgb(10 27 48 / .38);
